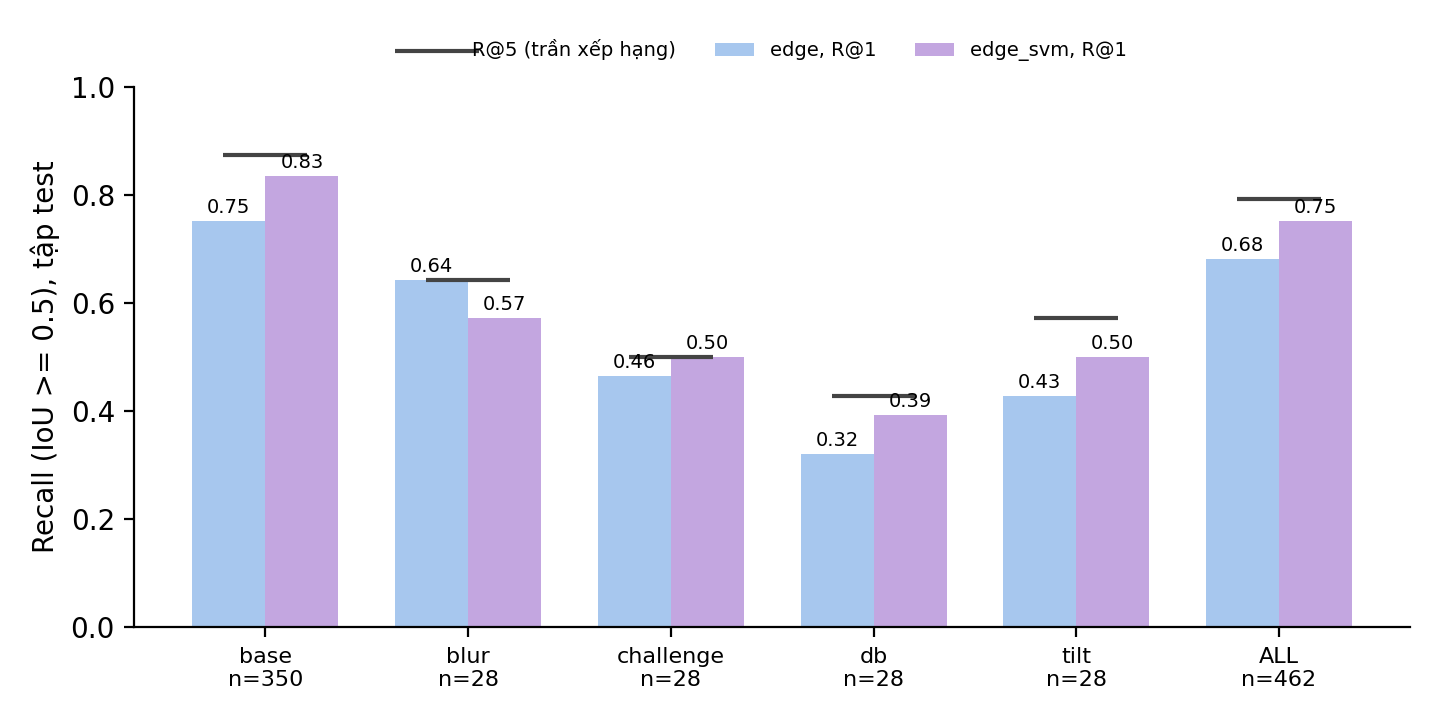
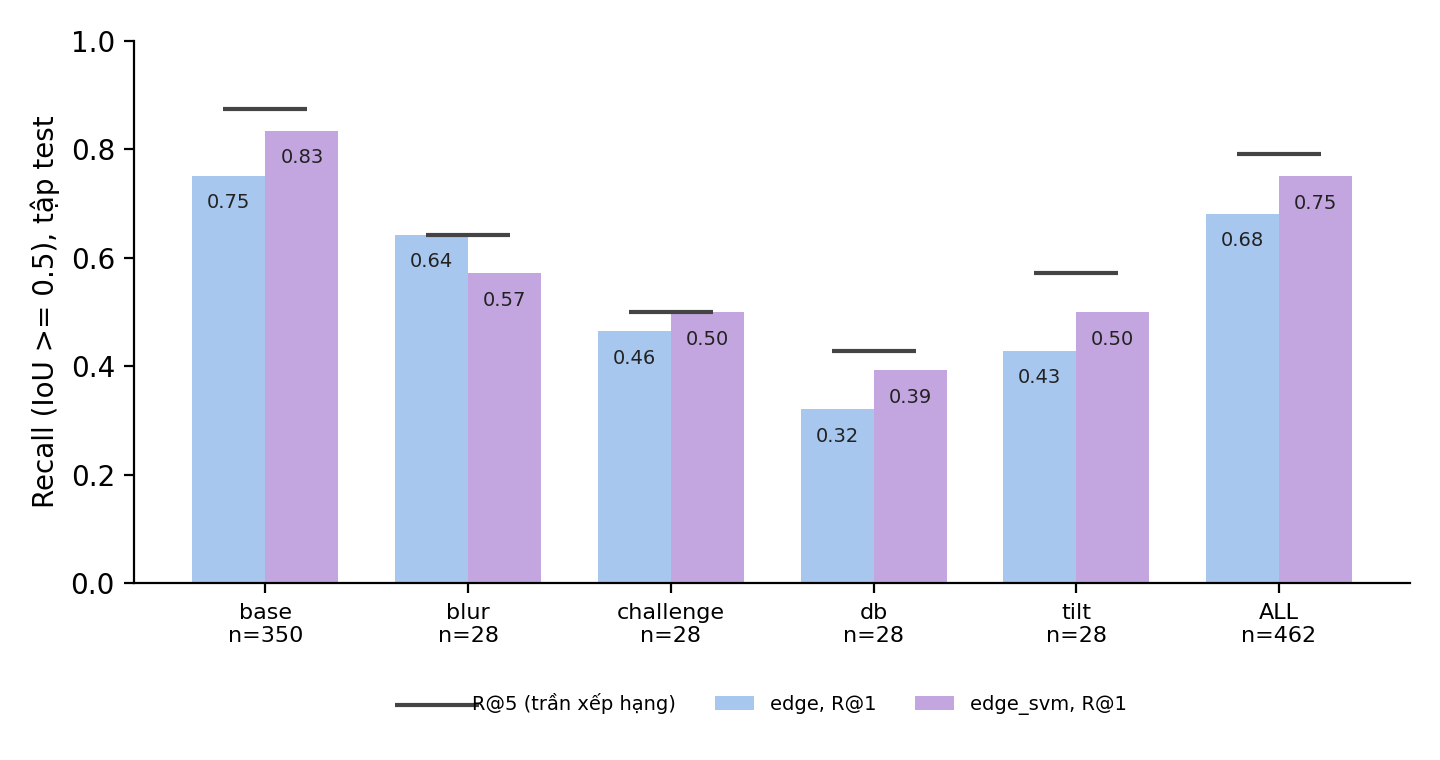
report: sửa theo review cuối (amssymb, font tên file, số liệu, diễn đạt)
- main.tex: thêm amssymb, font TeX Gyre theo tên file (Overleaf + Tectonic), pageanchor titlepage, emergencystretch
- làm tròn P/R/F1 và tỉ lệ từ số đếm, một lần half-up (bilateral R 0.747, edge_svm F1 0.817, 1/16 = 0.063)
- trần diện tích: 12/16 mất, không phải trần cứng, GT lớn là loc_rank
- rectify: thiếu hộp chứ không thừa; blur ngoại lệ; E4/E6 cùng 0.1948
- quad lệch ~16 px nêu là giả thuyết, dẫn bảng chéo 152/257
- thời gian: dẫn mục Đo lại thời gian, bỏ khẳng định tỉ lệ ổn định
- thêm \ref triage, mô tả top_k trước NMS và approxPolyDP dừng sớm, sửa câu lỗi, lưới 2 cột, nhãn hình E3
- check_tex.py: kiểm tra macro cần gói; README cập nhật

diff --git a/report/sections/a_results.tex b/report/sections/a_results.tex
@@ -3,7 +3,7 @@
 
 \subsection{Thiết lập}
 
-Mọi số liệu dưới đây dùng ngưỡng IoU $\ge 0.5$. Tham số và lựa chọn phương pháp được chọn trên tập tune (198 ảnh); các bảng chính báo trên tập test (462 ảnh) và chỉ đo cho cấu hình đã chốt. Các nhóm khó (\code{blur}, \code{db}, \code{challenge}, \code{tilt}) chỉ có 12 ảnh ở tune và 28 ảnh ở test, nên một ảnh đổi kết quả làm tỉ lệ thay đổi $1/28\approx 0.036$; chênh lệch nhỏ ở các nhóm này không nên đọc là xu hướng. Thời gian chạy (ms/ảnh) trong mục này và mục~\ref{sec:e7} đo trên một lần chạy một tiến trình, máy ít tải hơn so với các lần chạy ghi trong sổ thí nghiệm (khi đó nhiều tiến trình khác chạy cùng lúc, số tuyệt đối cao gấp khoảng ba lần); vì vậy chỉ nên so sánh tương đối giữa các dòng của cùng một bảng.
+Mọi số liệu dưới đây dùng ngưỡng IoU $\ge 0.5$. Tham số và lựa chọn phương pháp được chọn trên tập tune (198 ảnh); các bảng chính báo trên tập test (462 ảnh) và chỉ đo cho cấu hình đã chốt. Các nhóm khó (\code{blur}, \code{db}, \code{challenge}, \code{tilt}) chỉ có 12 ảnh ở tune và 28 ảnh ở test, nên một ảnh đổi kết quả làm tỉ lệ thay đổi $1/28\approx 0.036$; chênh lệch nhỏ ở các nhóm này không nên đọc là xu hướng. Thời gian chạy (ms/ảnh) trong mục này và mục~\ref{sec:e7} đo trên một lần chạy một tiến trình, máy ít tải hơn so với các lần chạy ghi trong sổ thí nghiệm (khi đó nhiều tiến trình khác chạy cùng lúc, số tuyệt đối cao gấp khoảng ba lần); vì vậy chỉ nên so sánh tương đối giữa các dòng của cùng một bảng. Số đo lại trên máy ít tải được ghi ở mục ``Đo lại thời gian (máy ít tải)'', ngày 2026-11-11, trong sổ thí nghiệm \code{notes.md}; bảng trong báo cáo dùng đúng các số đó.
 
 \subsection{Tiền xử lý: kích thước ảnh và bộ lọc nhiễu (E2)}
 \label{sec:e2}
@@ -36,7 +36,7 @@ Chiều rộng & P & R & F1 & R@5 \\
 \input{tables/t_e2}
 \end{table}
 
-Bilateral cho F1 cao hơn rõ rệt trên cả hai tập: 0.761 so với 0.584--0.624 trên tune và 0.705 so với 0.592--0.630 trên test. Ba bộ lọc còn lại cho kết quả gần nhau, và trên test bộ lọc trung vị (0.600) chỉ nhỉnh hơn \code{none} (0.592) rất ít. Nguyên nhân có thể là bilateral làm mịn nhiễu và các chi tiết nền mà vẫn giữ cạnh nét ký tự, nên bản đồ cạnh Sobel ít ứng viên rác hơn (đây là giả thuyết, chưa kiểm tra riêng). Cái giá là thời gian: bilateral chậm hơn các bộ lọc khác khoảng 18--29 ms/ảnh trong lần đo này (111 ms so với 82--93 ms trên test). Nên dùng bilateral cho các thí nghiệm sau.
+Bilateral cho F1 cao hơn rõ rệt trên cả hai tập: 0.761 so với 0.584--0.624 trên tune và 0.705 so với 0.592--0.630 trên test. Ba bộ lọc còn lại cho kết quả gần nhau, và trên test bộ lọc trung vị (0.600) chỉ nhỉnh hơn \code{none} (0.592) rất ít. Nguyên nhân có thể là bilateral làm mịn nhiễu và các chi tiết nền mà vẫn giữ cạnh nét ký tự, nên bản đồ cạnh Sobel ít ứng viên rác hơn (đây là giả thuyết, chưa kiểm tra riêng). Cái giá là thời gian: bilateral chậm hơn các bộ lọc khác khoảng 18--29 ms/ảnh trong lần đo này (111 ms so với 82--93 ms trên test). Chênh thời gian này đảo ngược so với lần đo khi máy đang tải (khi đó chênh giữa các bộ lọc gần như biến mất; xem mục đo lại trong \code{notes.md}), nên chênh thời gian giữa các bộ lọc nhạy với tải máy. Nên dùng bilateral cho các thí nghiệm sau.
 
 \subsection{Tinh chỉnh bước định vị trên tập tune}
 \label{sec:tuning}
@@ -101,14 +101,14 @@ ALL & 462 & $0.667\to 0.792$ & $0.545\to 0.682$ & $0.593\to 0.729$ \\
 \end{tabular}
 \end{table}
 
-Trên test, Recall@1 tăng từ 0.545 lên 0.682 và \code{cand\_recall} từ 0.667 lên 0.792, tức cải thiện không chỉ do khớp tune. Phần lớn lợi ích nằm ở nhóm \code{base} (Recall@1 $0.609\to 0.751$). Hai nhóm \code{db} và \code{challenge} gần như không đổi hoặc giảm nhẹ \code{cand\_recall} (với $n=28$ chỉ là 1--2 ảnh). Cái giá là thời gian: số ứng viên trung bình mỗi ảnh gần như không đổi nhưng thời gian tăng khoảng 40--50\% do thêm hai lượt hình thái học và tính đặc trưng (tune $309\to 426$ ms/ảnh, test $269\to 396$ ms/ảnh, đo khi máy đang tải nên chỉ mang tính tương đối). Có một trần cứng: bộ lọc diện tích dùng diện tích \code{minAreaRect}; trên test có 16/462 bbox thật có \code{area\_ratio} dưới 0.008 (nhỏ nhất 0.0032) và 1 bbox lớn hơn 0.16, nên những ảnh này bị loại ngay từ bước lọc.
+Trên test, Recall@1 tăng từ 0.545 lên 0.682 và \code{cand\_recall} từ 0.667 lên 0.792, tức cải thiện không chỉ do khớp tune. Phần lớn lợi ích nằm ở nhóm \code{base} (Recall@1 $0.609\to 0.751$). Hai nhóm \code{db} và \code{challenge} gần như không đổi hoặc giảm nhẹ \code{cand\_recall} (với $n=28$ chỉ là 1--2 ảnh). Cái giá là thời gian: số ứng viên trung bình mỗi ảnh gần như không đổi nhưng thời gian tăng khoảng 40--50\% do thêm hai lượt hình thái học và tính đặc trưng (tune $309\to 426$ ms/ảnh, test $269\to 396$ ms/ảnh, đo khi máy đang tải nên chỉ mang tính tương đối). Cận diện tích không phải trần cứng: trên test có 16/462 bbox thật có \code{area\_ratio} dưới 0.008 (nhỏ nhất 0.0032) và 1 bbox lớn hơn 0.16, nhưng bộ lọc xét diện tích \code{minAreaRect} của \emph{ứng viên} chứ không phải của bbox thật, và IoU $\ge 0.5$ cho phép ứng viên lớn hơn bbox thật. Phần triage (mục~\ref{sec:triage}) cho thấy chỉ 12/16 bbox nhỏ bị mất ở bước định vị; 4 ảnh còn lại không mất ở đó. Bbox lớn duy nhất (\code{tilt\_0022}, 0.182) cũng không bị loại mà là lỗi xếp hạng (\code{loc\_rank}).
 
 \subsection{Định vị: so sánh \code{edge} và \code{edge\_svm} (E3)}
 \label{sec:e3}
 
 \textbf{Huấn luyện SVM.} Trên 792 patch của tune (198 dương, 594 âm), kiểm chứng chéo 5 fold cho accuracy $0.960\pm 0.006$, precision $0.922\pm 0.035$, recall $0.919\pm 0.041$, F1 $0.919\pm 0.013$ (trung bình $\pm$ độ lệch chuẩn giữa các fold). Con số này lạc quan vì chia theo patch (các patch của cùng một ảnh có thể rơi vào cả train lẫn validation) và vì mẫu âm ngẫu nhiên khá dễ; độ chính xác định vị thực tế thấp hơn nhiều (bên dưới).
 
-\textbf{Kết quả.} E3 dùng bộ lọc bilateral (chọn ở E2). Phương pháp được chọn theo F1 ALL trên tune: \code{edge\_svm} (F1 0.818, so với 0.761 của \code{edge}). Bảng~\ref{tab:e3} và Hình~\ref{fig:e3} cho kết quả trên test.
+{\sloppy \textbf{Kết quả.} E3 dùng bộ lọc bilateral (chọn ở E2). Phương pháp được chọn theo F1 ALL trên tune: \code{edge\_svm} (F1 0.817, so với 0.761 của \code{edge}). Bảng~\ref{tab:e3} và Hình~\ref{fig:e3} cho kết quả trên test.\par}
 
 \begin{table}[htbp]
 \centering
@@ -148,11 +148,11 @@ E4 chạy toàn pipeline (định vị \code{edge\_svm} + bilateral, nhị phân
 \resizebox{\textwidth}{!}{\input{tables/t_e4_subset}}
 \end{table}
 
-Warp quad thắng cắt bbox ở mọi cột trên ALL: sai số góc giảm từ $25.2$ xuống $16.3$ px (trung vị $19.4\to 13.8$), \code{all\_correct} trên các ảnh top-1 đúng tăng từ $0.124$ lên $0.259$. Khi cô lập hẳn khỏi lỗi định vị (crop \code{gt}), \code{all\_correct} tăng từ $0.262$ lên $0.563$, tức phép nắn tự nó đã làm chất lượng tách ký tự tăng hơn gấp đôi tách ký tự. Nhóm \code{tilt} cho thấy đúng lý do: bbox ngang không bù được độ nghiêng, sai số góc $68.0$ px so với $28.9$ px của quad và \code{count\_match} $0.000$ so với $0.429$.
+Warp quad thắng cắt bbox ở mọi cột trên ALL: sai số góc giảm từ $25.2$ xuống $16.3$ px (trung vị $19.4\to 13.8$), \code{all\_correct} trên các ảnh top-1 đúng tăng từ $0.124$ lên $0.259$. Khi cô lập hẳn khỏi lỗi định vị (crop \code{gt}), \code{all\_correct} tăng từ $0.262$ lên $0.563$, tức phép nắn tự nó đã làm \code{all\_correct} tăng hơn gấp đôi. Nhóm \code{tilt} cho thấy đúng lý do: bbox ngang không bù được độ nghiêng, sai số góc $68.0$ px so với $28.9$ px của quad và \code{count\_match} $0.000$ so với $0.429$.
 
-\textbf{Ngoại lệ ở nhóm \code{blur}} ($n=16$ ảnh top-1 đúng): bbox nhỉnh hơn quad ở \code{all\_correct} ($0.125$ so với $0.000$), \code{count\_match} ($0.125$ so với $0.063$) và \code{pos1--6} ($0.240$ so với $0.229$), dù sai số góc của quad vẫn tốt hơn ($16.0$ so với $22.8$ px). Chênh lệch này là 1--2 ảnh (một ảnh bằng $0.063$) nên chưa kết luận được. Nhóm \code{tilt} hòa ở \code{all\_correct} (cùng bằng 0) vì cả hai cách đều hỏng hết.
+\textbf{Ngoại lệ ở nhóm \code{blur}} ($n=16$ ảnh top-1 đúng): bbox nhỉnh hơn quad ở \code{all\_correct} ($0.125$ so với $0.000$), \code{count\_match} ($0.125$ so với $0.063$) và \code{pos1\textendash 6} ($0.240$ so với $0.229$), dù sai số góc của quad vẫn tốt hơn ($16.0$ so với $22.8$ px). Chênh lệch này là 1--2 ảnh (một ảnh bằng $0.063$) nên chưa kết luận được. Nhóm \code{tilt} hòa ở \code{all\_correct} (cùng bằng 0) vì cả hai cách đều hỏng hết.
 
-Có hai cảnh báo. Thứ nhất, lợi ích của \code{approxpoly} so với \code{minarearect} nhỏ: trên 128 ảnh tune có top-1 đúng (cấu hình định vị giai đoạn đầu), sai số góc trung bình chỉ giảm từ $19.7$ xuống $17.6$ px; theo từng ảnh có 45 ảnh tốt hơn, 48 kém hơn, 35 hòa (Wilcoxon $p=0.46$), nên khác biệt này không có ý nghĩa thống kê, và hằng số được chỉnh trên đúng tập đó. Lợi ích lớn ở E4 chủ yếu đến từ việc dùng quad nghiêng thay vì bbox ngang. Thứ hai, ở crop \code{gt} và \code{pred\_tp} có khoảng cách lớn ($0.563$ so với $0.259$ ở \code{all\_correct} của warp quad): dù IoU $\ge 0.5$, quad dự đoán vẫn lệch trung bình khoảng 16 px so với quad thật, đủ làm hỏng khoảng một nửa số biển ở bước tách ký tự. Trong 128 ảnh tune nói trên, 107 ảnh có ít nhất một góc thật nằm ngoài quad ứng viên, nên trần sai số do bước định vị quyết định, không phải bước tinh chỉnh quad.
+Có hai cảnh báo. Thứ nhất, lợi ích của \code{approxpoly} so với \code{minarearect} nhỏ: trên 128 ảnh tune có top-1 đúng (cấu hình định vị giai đoạn đầu), sai số góc trung bình chỉ giảm từ $19.7$ xuống $17.6$ px; theo từng ảnh có 45 ảnh tốt hơn, 48 kém hơn, 35 hòa (Wilcoxon $p=0.46$), nên khác biệt này không có ý nghĩa thống kê, và hằng số được chỉnh trên đúng tập đó. Lợi ích lớn ở E4 chủ yếu đến từ việc dùng quad nghiêng thay vì bbox ngang. Thứ hai, ở crop \code{gt} và \code{pred\_tp} có khoảng cách lớn ($0.563$ so với $0.259$ ở \code{all\_correct} của warp quad): dù IoU $\ge 0.5$, quad dự đoán vẫn lệch trung bình khoảng 16 px so với quad thật. Chúng tôi \emph{giả thuyết} độ lệch này là nguyên nhân chính khiến khoảng một nửa số biển hỏng ở bước tách ký tự; bảng chéo (Bảng~\ref{tab:cross}) chỉ xác nhận một phần: trong 257 ảnh top-1 đúng nhưng vẫn lỗi, 152 ảnh tách đúng khi crop \code{gt}, nên lỗi nằm ở crop dự đoán, còn phần do quad lệch cụ thể thì chưa tách riêng được. Trong 128 ảnh tune nói trên, 107 ảnh có ít nhất một góc thật nằm ngoài quad ứng viên, nên trần sai số do bước định vị quyết định, không phải bước tinh chỉnh quad.
 
 \subsection{Thời gian chạy từng bước (E7)}
 \label{sec:e7}
@@ -167,4 +167,4 @@ E7 đo thời gian từng bước của pipeline đầy đủ trên test (Bảng
 \input{tables/t_e7}
 \end{table}
 
-Tổng thời gian trung bình là 139.8 ms/ảnh (p95 262.2 ms). Định vị chiếm gần như toàn bộ: tiền xử lý khoảng 50\% (69.8 ms, phần lớn là bilateral đường kính 11 trên ảnh 800 px), Sobel cùng morph đa tỉ lệ khoảng 45\% (63.5 ms), SVM khoảng 3\% (4.8 ms). Các bước nắn, nhị phân hóa và tách ký tự cộng lại chỉ 1.8 ms. Theo nhóm, \code{tilt} chậm nhất (208.4 ms) và \code{challenge} nhanh nhất (88.5 ms; \code{db} 92.6 ms). Số tuyệt đối trong lần đo ghi trong sổ thí nghiệm cao hơn nhiều (416 ms/ảnh) vì máy khi đó đang chạy nhiều tiến trình; tỉ lệ giữa các bước ổn định hơn (tiền xử lý 44\%, SVM 3.3\%). Nếu cần số tuyệt đối cho kết luận về tốc độ thì nên đo lại trên máy riêng.
+Tổng thời gian trung bình là 139.8 ms/ảnh (p95 262.2 ms). Định vị chiếm gần như toàn bộ: tiền xử lý khoảng 50\% (69.8 ms, phần lớn là bilateral đường kính 11 trên ảnh 800 px), Sobel cùng morph đa tỉ lệ khoảng 45\% (63.5 ms), SVM khoảng 3\% (4.8 ms). Các bước nắn, nhị phân hóa và tách ký tự cộng lại chỉ 1.8 ms. Theo nhóm, \code{tilt} chậm nhất (208.4 ms) và \code{challenge} nhanh nhất (88.5 ms; \code{db} 92.6 ms). Số tuyệt đối trong lần đo ghi trong sổ thí nghiệm cao hơn nhiều (416 ms/ảnh) vì máy khi đó đang chạy nhiều tiến trình; tỉ lệ giữa các bước cũng dịch theo tải máy (tiền xử lý 44\% $\to$ 50\%, Sobel cùng morph 51\% $\to$ 45\%, SVM 3.3\% $\to$ 3.4\%), nên chỉ xem tỉ lệ là gần đúng. Nếu cần số tuyệt đối cho kết luận về tốc độ thì nên đo lại trên máy riêng.

diff --git a/report/make_figures.py b/report/make_figures.py
@@ -1,11 +1,18 @@
 """Sinh bảng LaTeX (report/tables/*.tex) và hình E3 (report/figures/e3_subset_r1.png) từ CSV kết quả.
 
 Cách dùng: python report/make_figures.py <thư mục assets chứa tables/*.csv> [thư mục report]
-Số liệu lấy nguyên từ CSV, làm tròn 3 chữ số (ms: 1 chữ số; corner: 1 chữ số).
+Quy tắc làm tròn (một lần, half-up, dùng chung cho mọi bảng): P, R, F1 và các tỉ lệ lấy theo số đếm
+(tp/fp/fn, count nguyên của n) rồi mới làm tròn 3 chữ số, không làm tròn lại từ giá trị 4 chữ số trong CSV
+(vd. 148/198 = 0.7475 -> 0.747, 1/16 = 0.0625 -> 0.063). Chỉ khi không suy ra được số đếm mới dùng giá trị CSV.
+ms và corner: làm tròn half-up từ giá trị CSV (1 chữ số; E7: 2 chữ số).
 """
 import csv
 import sys
+from decimal import ROUND_HALF_UP, Decimal, getcontext
+from fractions import Fraction
 from pathlib import Path
+
+getcontext().prec = 40
 
 SUBSETS = ["base", "blur", "challenge", "db", "tilt", "ALL"]
 STAGES = ["loc_no_candidate", "loc_rank", "rectify", "segment_count", "segment_position", "ok"]
@@ -20,12 +27,43 @@ def rd(p):
         return list(csv.DictReader(f))
 
 
+def hu(x, nd):
+    """Làm tròn half-up đúng một lần; x là Fraction hoặc chuỗi/số thập phân."""
+    if isinstance(x, Fraction):
+        d = Decimal(x.numerator) / Decimal(x.denominator)
+    else:
+        d = Decimal(str(x))
+    return str(d.quantize(Decimal(1).scaleb(-nd), rounding=ROUND_HALF_UP))
+
+
 def f3(x):
-    return f"{float(x):.3f}"
+    return hu(x, 3)
 
 
 def f1(x):
-    return f"{float(x):.1f}"
+    return hu(x, 1)
+
+
+def frac(num, den, fallback):
+    """Tỉ lệ num/den làm tròn 3 chữ số; den = 0 thì dùng giá trị CSV."""
+    return f3(Fraction(int(num), int(den))) if int(den) else f3(fallback)
+
+
+def from_rate(rate, den):
+    """Đổi tỉ lệ CSV (4 chữ số) về số đếm nguyên trên mẫu số den rồi làm tròn lại một lần.
+
+    Nếu rate*den không gần số nguyên (mẫu số khác) thì trả về giá trị CSV làm tròn."""
+    r = float(rate)
+    k = round(r * den)
+    if abs(r * den - k) < 0.5e-4 * den + 1e-9 and den:
+        return f3(Fraction(k, den))
+    return f3(rate)
+
+
+def prf(r):
+    tp, fp, fn = int(r["tp"]), int(r["fp"]), int(r["fn"])
+    return (frac(tp, tp + fp, r["precision"]), frac(tp, tp + fn, r["recall"]),
+            frac(2 * tp, 2 * tp + fp + fn, r["f1"]))
 
 
 def tab(cols, header, rows, out):
@@ -37,6 +75,18 @@ def tab(cols, header, rows, out):
             lines.append(" & ".join(r) + r" \\")
     lines += [r"\bottomrule", r"\end{tabular}", ""]
     Path(out).write_text("\n".join(lines), encoding="utf-8")
+
+
+def e4rates(r):
+    """count_match, pos0, pos1_6, all_correct từ số đếm (n ảnh; pos1_6 trên 6n ký tự)."""
+    n = int(r["n"])
+    return (from_rate(r["count_match"], n), from_rate(r["pos0_acc"], n), from_rate(r["pos1_6_acc"], 6 * n),
+            from_rate(r["all_correct"], n))
+
+
+def E4ROW(r, cs, cm, ce):
+    cmatch, p0, p16, allc = e4rates(r)
+    return [cs, cm, r["n"], ce, cmatch, p0, p16, allc]
 
 
 def main():
@@ -54,8 +104,9 @@ def main():
                 name = esc(r["denoise"])
                 if r["chosen"] == "True":
                     name = r"\textbf{" + name + "}"
-                rows.append([sp, name, r["n"], f3(r["precision"]), f3(r["recall"]), f3(r["f1"]),
-                             f3(r["recall_at_5"]), f1(r["ms_mean"])])
+                P, R, F = prf(r)
+                rows.append([sp, name, r["n"], P, R, F, from_rate(r["recall_at_5"], int(r["n"])),
+                             f1(r["ms_mean"])])
         if sp == "tune":
             rows.append("MID")
     tab("llrrrrrr", ["Tập", "Bộ lọc", "$n$", "P", "R", "F1", "R@5", "ms/ảnh"], rows, tdir / "t_e2.tex")
@@ -70,8 +121,10 @@ def main():
                 if has_split and r["split"] != "test":
                     continue
                 if r["method"] == m and r["subset"] == sb:
-                    rows.append([esc(m), sb, r["n"], f3(r["precision"]), f3(r["recall"]), f3(r["f1"]),
-                                 f3(r["recall_at_1"]), f3(r["recall_at_3"]), f3(r["recall_at_5"])])
+                    n = int(r["n"])
+                    P, R, F = prf(r)
+                    rows.append([esc(m), sb, r["n"], P, R, F, from_rate(r["recall_at_1"], n),
+                                 from_rate(r["recall_at_3"], n), from_rate(r["recall_at_5"], n)])
         if m == "edge":
             rows.append("MID")
     tab("llrrrrrrr", ["Phương pháp", "Nhóm", "$n$", "P", "R", "F1", "R@1", "R@3", "R@5"], rows,
@@ -84,9 +137,8 @@ def main():
         for cm in ("bbox", "quad"):
             for r in e4:
                 if r["crop_source"] == cs and r["crop_method"] == cm and r["subset"] == "ALL":
-                    ce = "--" if not r["corner_mean"] else f"{float(r['corner_mean']):.1f} / {float(r['corner_median']):.1f}"
-                    rows.append([esc(cs), cm, r["n"], ce, f3(r["count_match"]), f3(r["pos0_acc"]),
-                                 f3(r["pos1_6_acc"]), f3(r["all_correct"])])
+                    ce = "--" if not r["corner_mean"] else f"{f1(r['corner_mean'])} / {f1(r['corner_median'])}"
+                    rows.append(E4ROW(r, esc(cs), cm, ce))
         if cs != "pred_tp":
             rows.append("MID")
     tab("llrrrrrr", ["Nguồn crop", "Crop", "$n$", "corner (tb / trung vị)", "count\\_match", "pos0", "pos1--6",
@@ -100,8 +152,8 @@ def main():
             if r["crop_source"] == "pred_tp" and r["subset"] == sb:
                 d[r["crop_method"]] = r
         b, q = d["bbox"], d["quad"]
-        rows.append([sb, b["n"], f1(b["corner_mean"]), f1(q["corner_mean"]), f3(b["count_match"]),
-                     f3(q["count_match"]), f3(b["all_correct"]), f3(q["all_correct"])])
+        rows.append([sb, b["n"], f1(b["corner_mean"]), f1(q["corner_mean"]), e4rates(b)[0],
+                     e4rates(q)[0], e4rates(b)[3], e4rates(q)[3]])
     tab("lrrrrrrr", ["Nhóm", "$n$", "corner bbox", "corner quad", "count bbox", "count quad", "all bbox",
                      "all quad"], rows, tdir / "t_e4_subset.tex")
 
@@ -121,13 +173,14 @@ def main():
                     nm = r"\textbf{" + nm + "}"
                 if st == "total_edge":
                     rows.append("MID")
-                rows.append([nm, r["n"], f"{float(r['ms_mean']):.2f}", f"{float(r['ms_p95']):.2f}"])
+                rows.append([nm, r["n"], hu(r["ms_mean"], 2), hu(r["ms_p95"], 2)])
     tab("lrrr", ["Bước", "$n$", "tb (ms)", "p95 (ms)"], rows, tdir / "t_e7.tex")
 
     # triage: bước x subset
     cnt = {}
     for r in rd(src / "triage_stage_counts.csv"):
-        cnt[(r["stage"], r["subset"])] = (r["n"], r["pct"], r["n_subset"])
+        cnt[(r["stage"], r["subset"])] = (r["n"], hu(Fraction(100 * int(r["n"]), int(r["n_subset"])), 1),
+                                          r["n_subset"])
     rows = []
     for st in STAGES:
         row = [esc(st)]
@@ -164,22 +217,22 @@ def main():
         sel[(r["method"], r["subset"])] = r
     x = np.arange(len(SUBSETS))
     w = 0.36
-    fig, ax = plt.subplots(figsize=(7.2, 3.6), dpi=200)
+    fig, ax = plt.subplots(figsize=(7.2, 3.8), dpi=200)
     v1 = [float(sel[("edge", s)]["recall_at_1"]) for s in SUBSETS]
     v2 = [float(sel[("edge_svm", s)]["recall_at_1"]) for s in SUBSETS]
     v5 = [float(sel[("edge", s)]["recall_at_5"]) for s in SUBSETS]
     ax.bar(x - w / 2, v1, w, color="#a7c7ee", label="edge, R@1")
     ax.bar(x + w / 2, v2, w, color="#c3a6e0", label="edge_svm, R@1")
     ax.scatter(x, v5, marker="_", s=900, color="#444444", zorder=3, label="R@5 (trần xếp hạng)")
-    for xi, a, b in zip(x, v1, v2):
-        ax.text(xi - w / 2, a + 0.015, f"{a:.2f}", ha="center", fontsize=7)
-        ax.text(xi + w / 2, b + 0.015, f"{b:.2f}", ha="center", fontsize=7)
+    for xi, a, b in zip(x, v1, v2):  # nhãn giá trị đặt trong thân cột để không đè vạch R@5
+        ax.text(xi - w / 2, a - 0.05, f"{a:.2f}", ha="center", va="center", fontsize=7, color="#222222")
+        ax.text(xi + w / 2, b - 0.05, f"{b:.2f}", ha="center", va="center", fontsize=7, color="#222222")
     ax.set_xticks(x)
     ax.set_xticklabels([f"{s}\nn={sel[('edge', s)]['n']}" for s in SUBSETS], fontsize=8)
     ax.set_ylim(0, 1.0)
     ax.set_ylabel("Recall (IoU >= 0.5), tập test")
     ax.spines[["top", "right"]].set_visible(False)
-    ax.legend(fontsize=7, frameon=False, ncol=3, loc="upper center", bbox_to_anchor=(0.5, 1.12))
+    ax.legend(fontsize=7, frameon=False, ncol=3, loc="upper center", bbox_to_anchor=(0.5, -0.17))
     fig.tight_layout()
     (rep / "figures").mkdir(exist_ok=True)
     fig.savefig(rep / "figures" / "e3_subset_r1.png")

diff --git a/report/check_tex.py b/report/check_tex.py
@@ -2,7 +2,8 @@ r"""Kiểm tra nhanh các file .tex (không thay thế biên dịch thật).
 
 Dùng: python report/check_tex.py <thư mục report>
 Kiểm tra: cân bằng \begin/\end, ngoặc nhọn, đường dẫn \input và \includegraphics,
-ký tự _ # chưa escape ngoài math, ký tự % chưa escape ngoài comment, & ngoài bảng.
+ký tự _ # chưa escape ngoài math, ký tự % chưa escape ngoài comment, & ngoài bảng,
+macro cần gói (\mathbb, \toprule, subfigure, ...) mà preamble chưa \usepackage.
 """
 import re
 import sys
@@ -93,6 +94,21 @@ for f in files:
     # dòng gốc: % không phải comment được strip_comment xử lý; kiểm tra '%' lẻ trong text đã strip
     if re.search(r"(?<!\\)%", text):
         errors.append(f"{f}: còn ký tự % chưa escape")
+
+# macro -> gói cần có (kiểm tra danh sách nhỏ, mở rộng khi cần)
+NEEDS = [(r"\\math(?:bb|frak)\b|\\checkmark\b|\\varnothing\b", "amssymb"),
+         (r"\\begin\{(?:align|gather|cases)\*?\}|\\text\{", "amsmath"),
+         (r"\\(?:top|mid|bottom)rule\b", "booktabs"), (r"\\begin\{subfigure\}", "subcaption"),
+         (r"\\(?:resizebox|includegraphics)\b", "graphicx"), (r"\\(?:textcolor|color)\b", "xcolor"),
+         (r"\\begin\{tikzpicture\}", "tikz")]
+body = "\n".join(strip_comment(line) for f in files for line in f.read_text(encoding="utf-8").splitlines())
+pre = (root / "main.tex").read_text(encoding="utf-8")
+pkgs = set()
+for m in re.finditer(r"\\usepackage(?:\[[^\]]*\])?\{([^}]*)\}", pre):
+    pkgs.update(x.strip() for x in m.group(1).split(","))
+for pat, pkg in NEEDS:
+    if re.search(pat, body) and pkg not in pkgs:
+        errors.append(f"main.tex: dùng macro khớp /{pat}/ nhưng thiếu " + "\\usepackage{" + pkg + "}")
 
 print("\n".join(errors) if errors else "OK: không phát hiện lỗi")
 sys.exit(1 if errors else 0)

diff --git a/report/main.tex b/report/main.tex
@@ -2,13 +2,15 @@
 \documentclass[11pt,a4paper]{article}
 
 \usepackage{fontspec}
-\setmainfont{TeX Gyre Termes}
-\setsansfont{TeX Gyre Heros}
-\setmonofont{TeX Gyre Cursor}[Scale=MatchLowercase]
+% Tên file font (không dùng tên họ) để chạy được cả trên Overleaf (XeLaTeX) lẫn Tectonic.
+\setmainfont{texgyretermes}[Extension=.otf,UprightFont=*-regular,BoldFont=*-bold,ItalicFont=*-italic,BoldItalicFont=*-bolditalic]
+\setsansfont{texgyreheros}[Extension=.otf,UprightFont=*-regular,BoldFont=*-bold,ItalicFont=*-italic,BoldItalicFont=*-bolditalic]
+\setmonofont{texgyrecursor}[Extension=.otf,UprightFont=*-regular,BoldFont=*-bold,ItalicFont=*-italic,BoldItalicFont=*-bolditalic,Scale=MatchLowercase]
 \usepackage[vietnamese]{babel}
 
 \usepackage[margin=2.5cm]{geometry}
 \usepackage{amsmath}
+\usepackage{amssymb}
 \usepackage{booktabs}
 \usepackage{array}
 \usepackage{graphicx}
@@ -21,6 +23,7 @@
 \hypersetup{colorlinks=true,linkcolor=blue!50!black,urlcolor=blue!50!black,citecolor=blue!50!black}
 
 \setlength{\parskip}{0.4em}
+\setlength{\emergencystretch}{2em}
 \setlength{\parindent}{0pt}
 \renewcommand{\arraystretch}{1.1}
 
@@ -34,6 +37,7 @@
 \begin{document}
 
 % ---- Trang bìa (placeholder, điền thông tin lớp / giảng viên trước khi nộp) ----
+\hypersetup{pageanchor=false}
 \begin{titlepage}
   \centering
   {\large Trường Đại học Khoa học Tự nhiên, ĐHQG Hà Nội (HUS)\par}
@@ -56,6 +60,7 @@
   \vfill
   {\large \today\par}
 \end{titlepage}
+\hypersetup{pageanchor=true}
 
 \tableofcontents
 \clearpage

diff --git a/report/tables/t_e4_subset.tex b/report/tables/t_e4_subset.tex
@@ -3,8 +3,8 @@
 Nhóm & $n$ & corner bbox & corner quad & count bbox & count quad & all bbox & all quad \\
 \midrule
 base & 292 & 23.0 & 15.3 & 0.387 & 0.558 & 0.130 & 0.291 \\
-blur & 16 & 22.8 & 16.0 & 0.125 & 0.062 & 0.125 & 0.000 \\
-challenge & 14 & 23.7 & 19.2 & 0.143 & 0.214 & 0.000 & 0.143 \\
+blur & 16 & 22.8 & 16.0 & 0.125 & 0.063 & 0.125 & 0.000 \\
+challenge & 14 & 23.7 & 19.3 & 0.143 & 0.214 & 0.000 & 0.143 \\
 db & 11 & 34.7 & 24.0 & 0.273 & 0.455 & 0.273 & 0.273 \\
 tilt & 14 & 68.0 & 28.9 & 0.000 & 0.429 & 0.000 & 0.000 \\
 ALL & 347 & 25.2 & 16.3 & 0.346 & 0.513 & 0.124 & 0.259 \\

diff --git a/report/tables/t_e2.tex b/report/tables/t_e2.tex
@@ -2,7 +2,7 @@
 \toprule
 Tập & Bộ lọc & $n$ & P & R & F1 & R@5 & ms/ảnh \\
 \midrule
-tune & \textbf{bilateral} & 198 & 0.775 & 0.748 & 0.761 & 0.828 & 132.5 \\
+tune & \textbf{bilateral} & 198 & 0.775 & 0.747 & 0.761 & 0.828 & 132.5 \\
 tune & gaussian & 198 & 0.630 & 0.601 & 0.615 & 0.682 & 95.0 \\
 tune & median & 198 & 0.637 & 0.611 & 0.624 & 0.697 & 107.7 \\
 tune & none & 198 & 0.598 & 0.571 & 0.584 & 0.657 & 97.4 \\

diff --git a/report/README.md b/report/README.md
@@ -16,7 +16,16 @@ Cấu trúc:
 3. Menu (góc trên trái) > Compiler: chọn **XeLaTeX**.
 4. Menu > Main document: `main.tex`. Nhấn Recompile.
 
-Font dùng TeX Gyre Termes / Heros / Cursor (có sẵn trong TeX Live trên Overleaf, hỗ trợ tiếng Việt). Không cần chữ Hán trong văn bản (các chữ Hán nằm trong ảnh).
+Font dùng TeX Gyre Termes / Heros / Cursor, khai báo theo tên file (`texgyretermes-regular.otf`, ...) để chạy được cả trên Overleaf lẫn Tectonic; hỗ trợ tiếng Việt. Gói `amssymb` đã khai báo trong `main.tex` (cần cho `\mathbb`). Không cần chữ Hán trong văn bản (các chữ Hán nằm trong ảnh).
+
+## Biên dịch bằng Tectonic (không cần cài TeX Live)
+
+```
+cd report
+tectonic -X compile main.tex
+```
+
+Bản PDF kèm theo được biên dịch bằng Tectonic (XeTeX), 15 trang, 0 lỗi, 0 tham chiếu thiếu. `check_tex.py` còn kiểm tra macro cần gói (`\mathbb`, `\toprule`, `subfigure`, ...) mà preamble chưa `\usepackage`.
 
 ## Sinh lại bảng và hình
 
@@ -29,5 +38,5 @@ Thư mục CSV là đầu ra của `experiments/run_all.py` và `experiments/tri
 
 ## Ghi chú số liệu
 
-- Mọi số E2/E3/E4/E7 và triage lấy từ CSV, làm tròn 3 chữ số. Bảng resize, quét tham số, Issue #10 và HOG+SVM lấy từ `notes.md` (không có CSV).
-- Thời gian E7 và E2 (ms) đo trên máy ít tải hơn lần ghi trong `notes.md`; báo cáo dùng số từ CSV.
+- Mọi số E2/E3/E4/E7 và triage lấy từ CSV. Quy tắc làm tròn (một lần, half-up): P, R, F1 và các tỉ lệ tính từ số đếm (`tp/fp/fn`, số ảnh) rồi mới làm tròn 3 chữ số, không làm tròn lại từ giá trị 4 chữ số trong CSV (vd. 148/198 = 0.7475 hiển thị 0.747; 1/16 = 0.0625 hiển thị 0.063). Bảng resize, quét tham số, Issue #10 và HOG+SVM lấy từ `notes.md` (không có CSV).
+- Thời gian E7 và E2 (ms) đo trên máy ít tải hơn lần ghi trong `notes.md`; báo cáo dùng số từ CSV, số đo lại ghi ở mục "Đo lại thời gian (máy ít tải)" (2026-11-11) trong `notes.md`. Tỉ lệ giữa các bước cũng dịch theo tải máy (tiền xử lý 44% -> 50%) nên chỉ là gần đúng.
